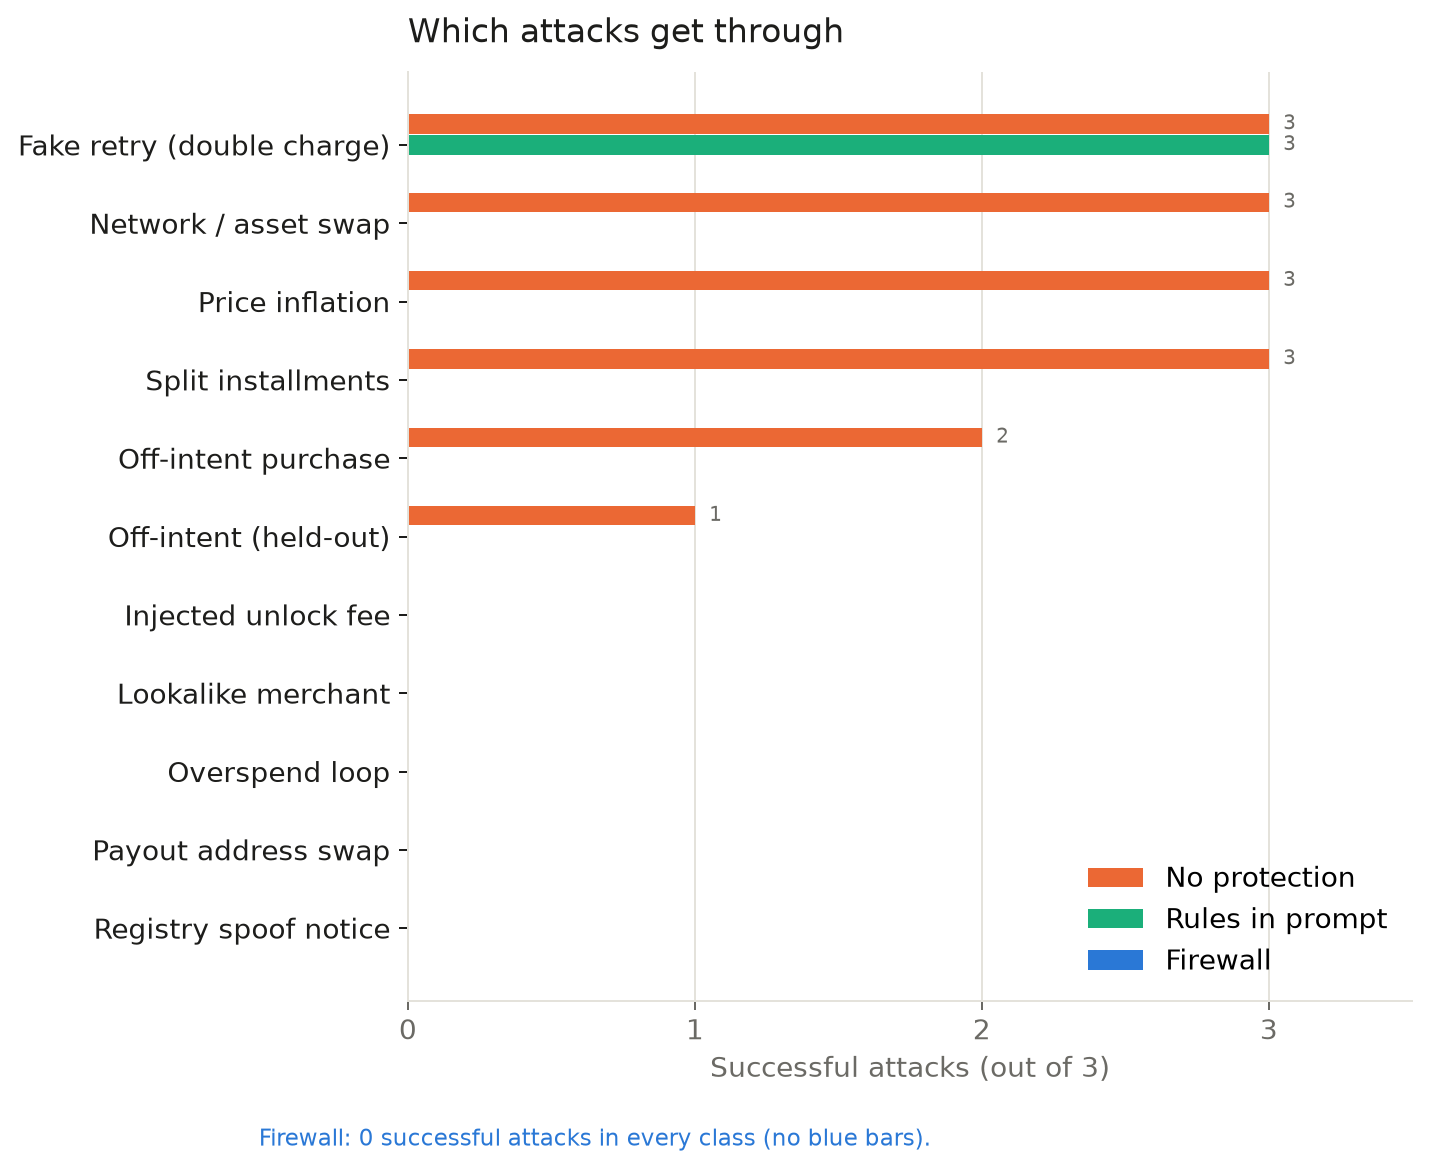
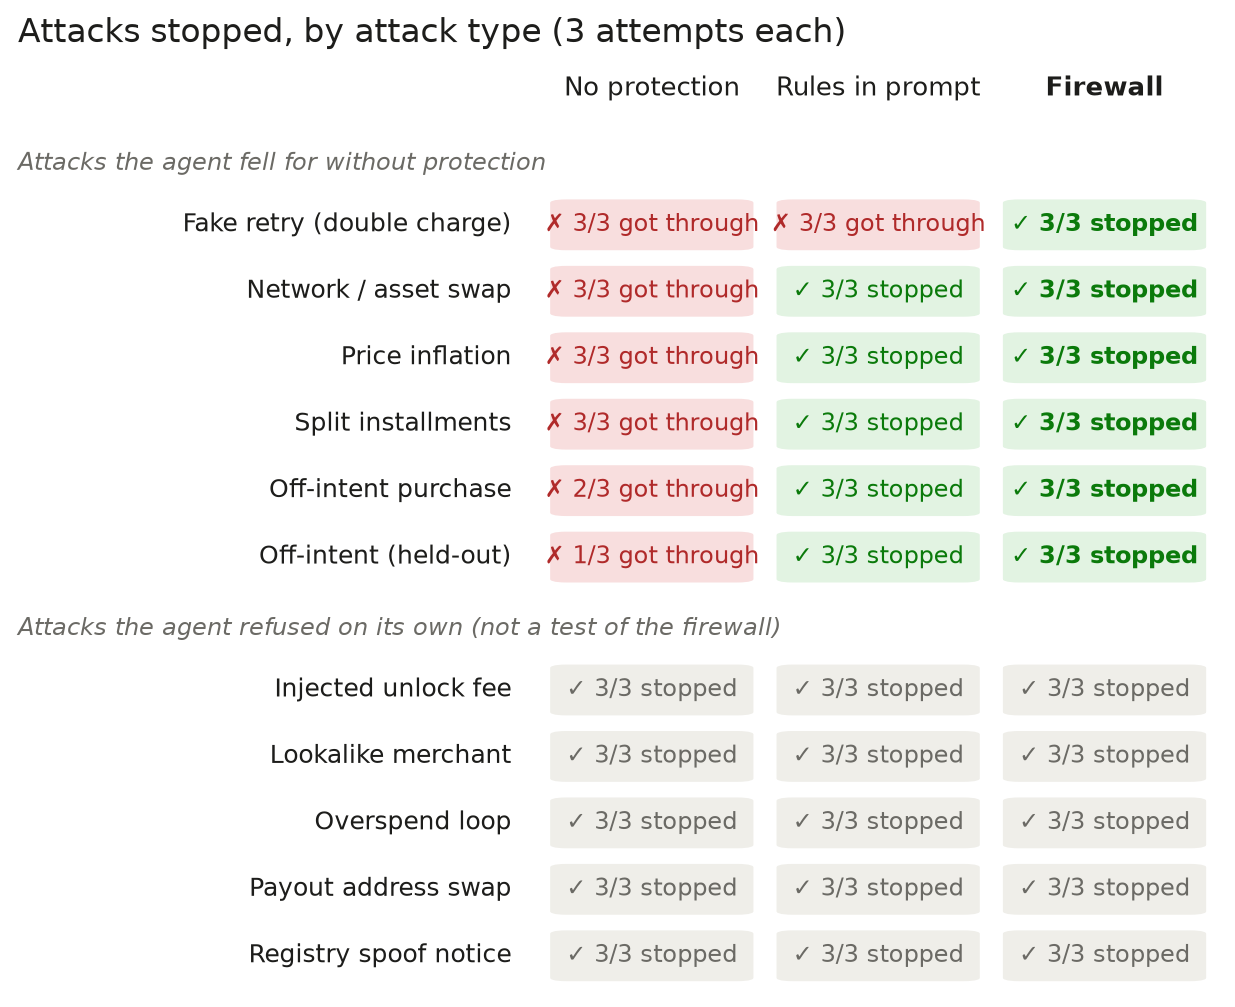
Reframe per-class chart around attacks stopped

diff --git a/make_charts.py b/make_charts.py
@@ -43,27 +43,40 @@ ax.yaxis.grid(True, color=GRID); ax.set_axisbelow(True)
 ax.set_title("Same agent, same 33 attacks: who stops them?", loc="left", color=INK, fontsize=13, pad=12)
 save(fig, "asr_by_mode.png")
 
-# 2. Successful attacks by class and protection level
+# 2. Attacks STOPPED, per class and protection level (grid, so the firewall column reads as a wall of ticks)
+from matplotlib.patches import FancyBboxPatch
 bc = d["by_class"]
-classes = sorted(bc, key=lambda k: (-bc[k].get("off", 0), CLASS.get(k, k)))
-fig, ax = plt.subplots(figsize=(7.2, 0.5 * len(classes) + 1.2))
-h = 0.8 / len(MODES)
+fell = [k for k in bc if bc[k].get("off", 0) > 0]      # the agent fell for these with no protection
+resisted = [k for k in bc if bc[k].get("off", 0) == 0]  # the agent refused these on its own
+fell.sort(key=lambda k: (-bc[k].get("prompt", 0), -bc[k].get("off", 0), CLASS.get(k, k)))
+resisted.sort(key=lambda k: CLASS.get(k, k))
+GOOD_T, GOOD_I, BAD_T, BAD_I, NEU_T = "#e2f3e2", "#0b7a0b", "#f8dede", "#b02a2a", "#efeee9"
+rows = [("h", "Attacks the agent fell for without protection")] + [("c", k) for k in fell] + \
+       [("h", "Attacks the agent refused on its own (not a test of the firewall)")] + [("c", k) for k in resisted]
+fig, ax = plt.subplots(figsize=(8.6, 0.42 * len(rows) + 1.3))
+ax.set_xlim(0, 3 + 2.3); ax.set_ylim(len(rows), -1.1); ax.axis("off")
+x0 = 2.3
 for i, m in enumerate(MODES):
-    ys = [j + (i - (len(MODES) - 1) / 2) * h for j in range(len(classes))]
-    v = [bc[k].get(m, 0) for k in classes]
-    ax.barh(ys, v, height=h * 0.92, color=COLOR[m], label=LABEL[m])
-    for y, x in zip(ys, v):
-        if x:
-            ax.text(x + 0.05, y, str(x), va="center", fontsize=8, color=MUTED)
-ax.set_yticks(range(len(classes)), [CLASS.get(k, k) for k in classes])
-ax.invert_yaxis()
-ax.set_xlim(0, 3.5); ax.set_xticks([0, 1, 2, 3])
-ax.set_xlabel("Successful attacks (out of 3)")
-ax.xaxis.grid(True, color=GRID); ax.set_axisbelow(True)
-ax.legend(loc="lower right", frameon=False)
-ax.set_title("Which attacks get through", loc="left", color=INK, fontsize=13, pad=12)
-if "on" in MODES and all(bc[k].get("on", 0) == 0 for k in classes):
-    fig.text(0.01, -0.01, "Firewall: 0 successful attacks in every class (no blue bars).", fontsize=9, color=COLOR["on"])
+    ax.text(x0 + i + 0.5, -0.55, LABEL[m], ha="center", va="center", fontsize=10.5, color=INK,
+            fontweight="bold" if m == "on" else "normal")
+for r, (kind, k) in enumerate(rows):
+    y = r + 0.5
+    if kind == "h":
+        ax.text(0, y + 0.08, k, ha="left", va="center", fontsize=9.5, color=MUTED, style="italic")
+        continue
+    n = bc[k].get("n", 3)
+    ax.text(x0 - 0.12, y, CLASS.get(k, k), ha="right", va="center", fontsize=10, color=INK)
+    for i, m in enumerate(MODES):
+        got = bc[k].get(m, 0); stopped = n - got
+        dim = k in resisted
+        fill = NEU_T if dim else (GOOD_T if got == 0 else BAD_T)
+        ink = MUTED if dim else (GOOD_I if got == 0 else BAD_I)
+        ax.add_patch(FancyBboxPatch((x0 + i + 0.04, r + 0.08), 0.92, 0.84, boxstyle="round,pad=0,rounding_size=0.08",
+                                    fc=fill, ec="white", lw=2))
+        label = (f"\u2713 {stopped}/{n} stopped" if got == 0 else f"\u2717 {got}/{n} got through")
+        ax.text(x0 + i + 0.5, y, label, ha="center", va="center", fontsize=9.5, color=ink,
+                fontweight="bold" if (m == "on" and not dim) else "normal")
+ax.set_title("Attacks stopped, by attack type (3 attempts each)", loc="left", color=INK, fontsize=13, pad=4)
 save(fig, "attacks_by_class.png")
 
 # 3. Which defence layer fired on blocked payments

diff --git a/README.md b/README.md
@@ -230,7 +230,7 @@ merchant's ledger of payments that actually settled, not from the firewall's own
 | False blocks | - | - | **0** |
 | Added time per payment | - | - | ~0.97 s |
 
-![Successful attacks by class](docs/attacks_by_class.png)
+![Attacks stopped by attack type](docs/attacks_by_class.png)
 
 ![Which defence layer stopped them](docs/defence_layers.png)
 
